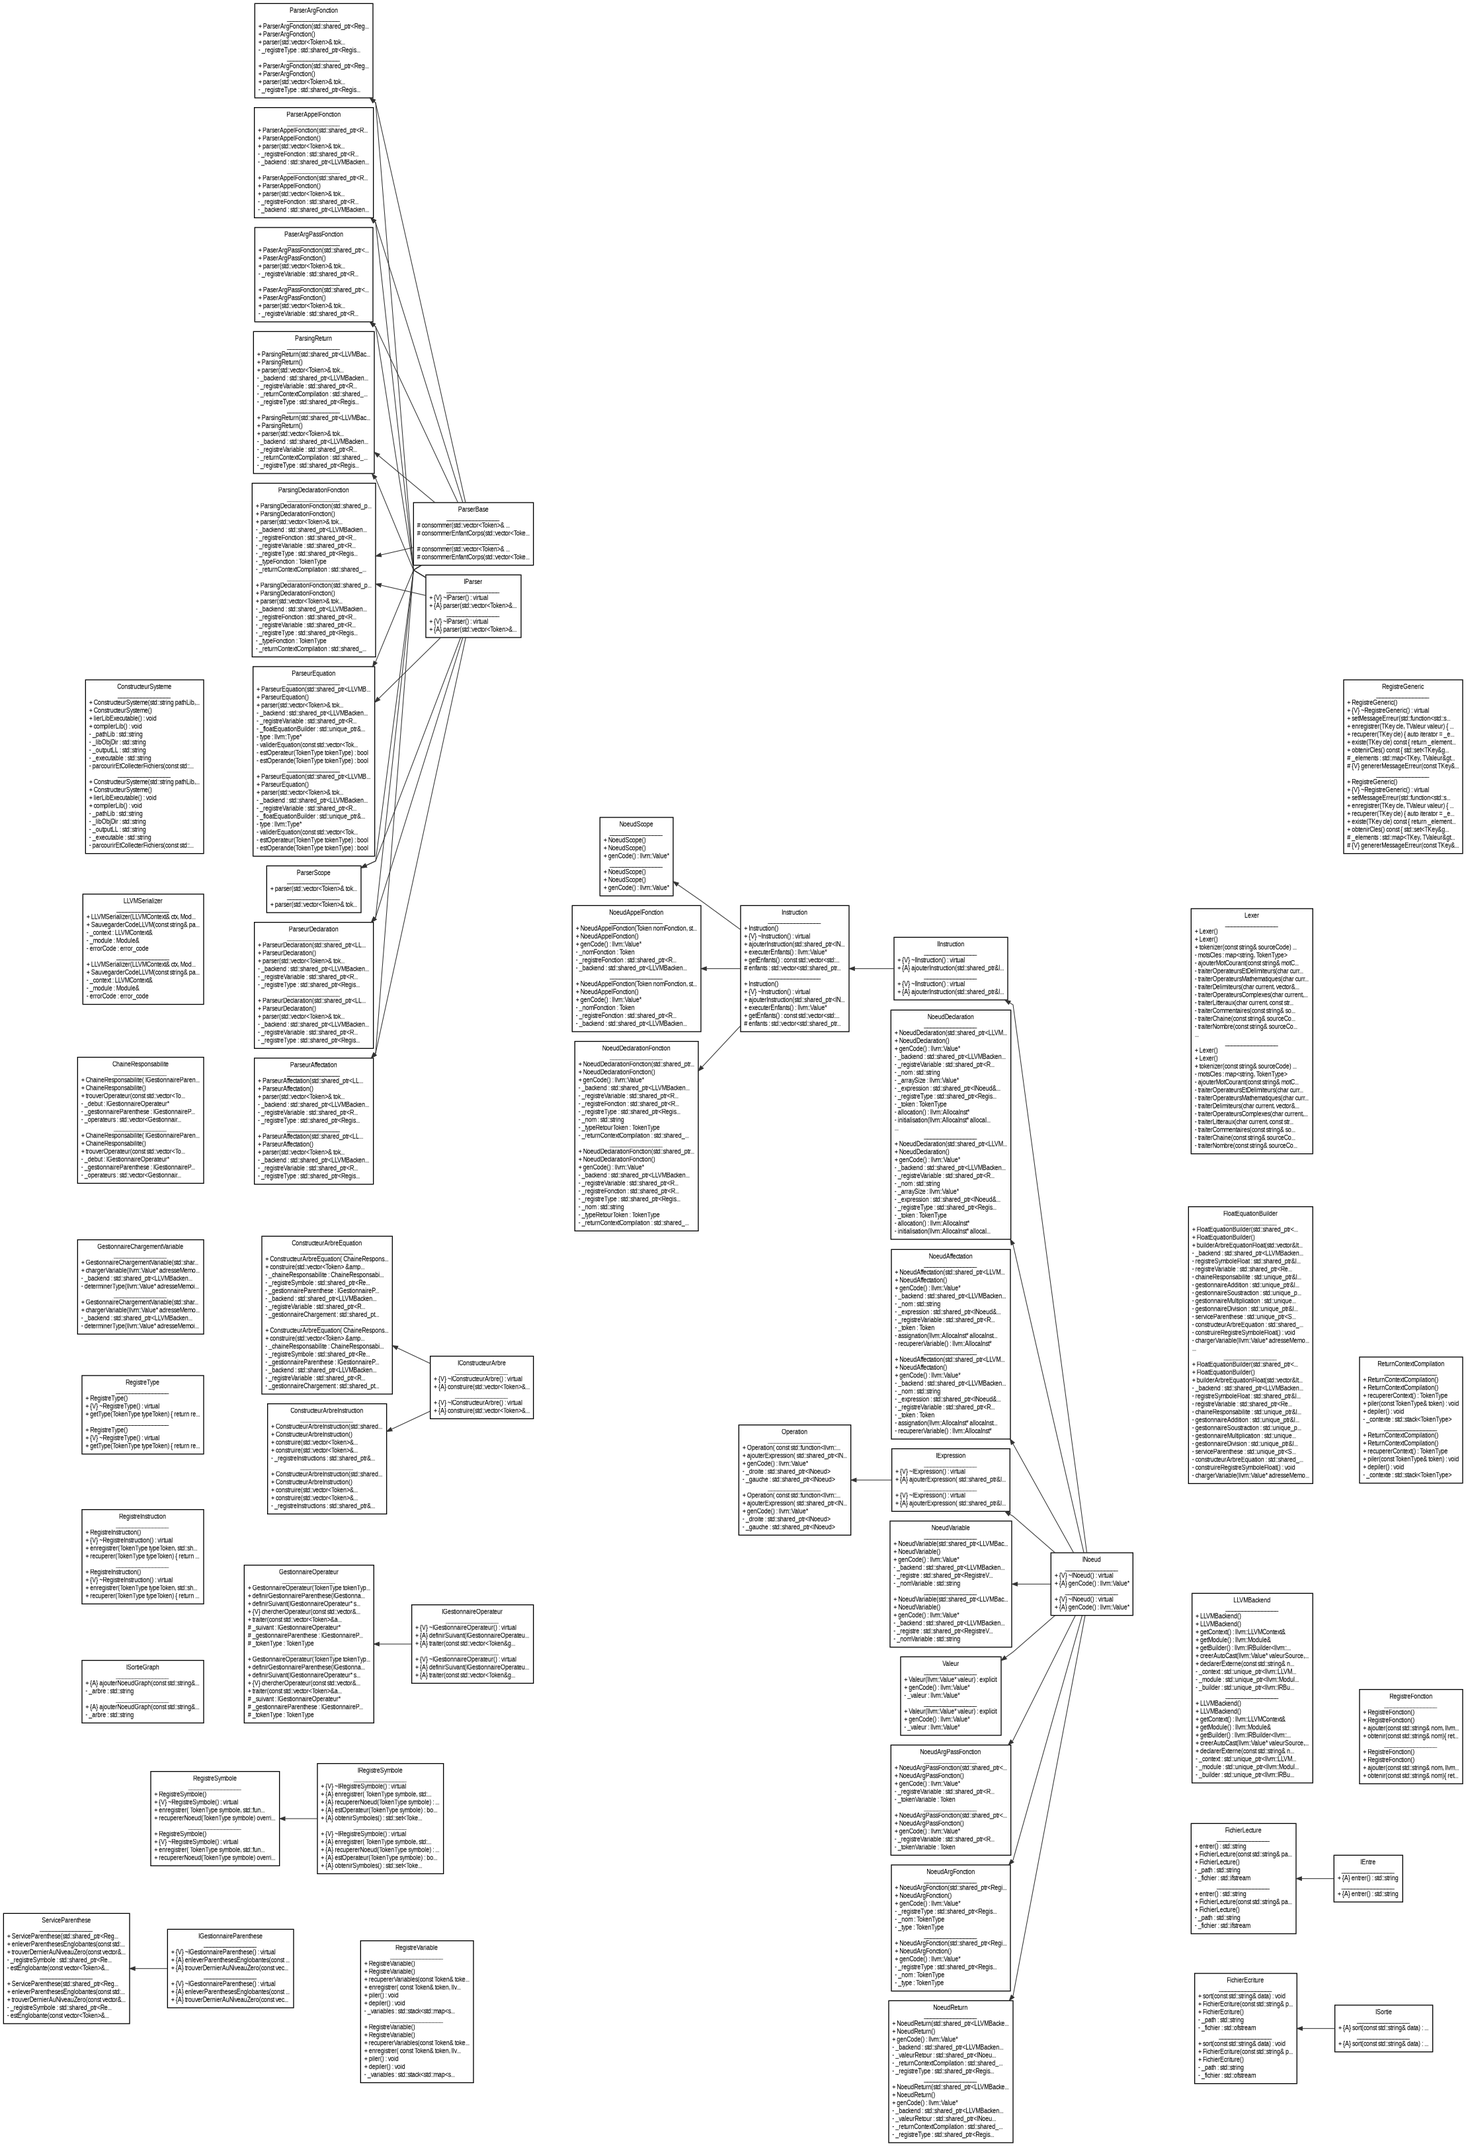
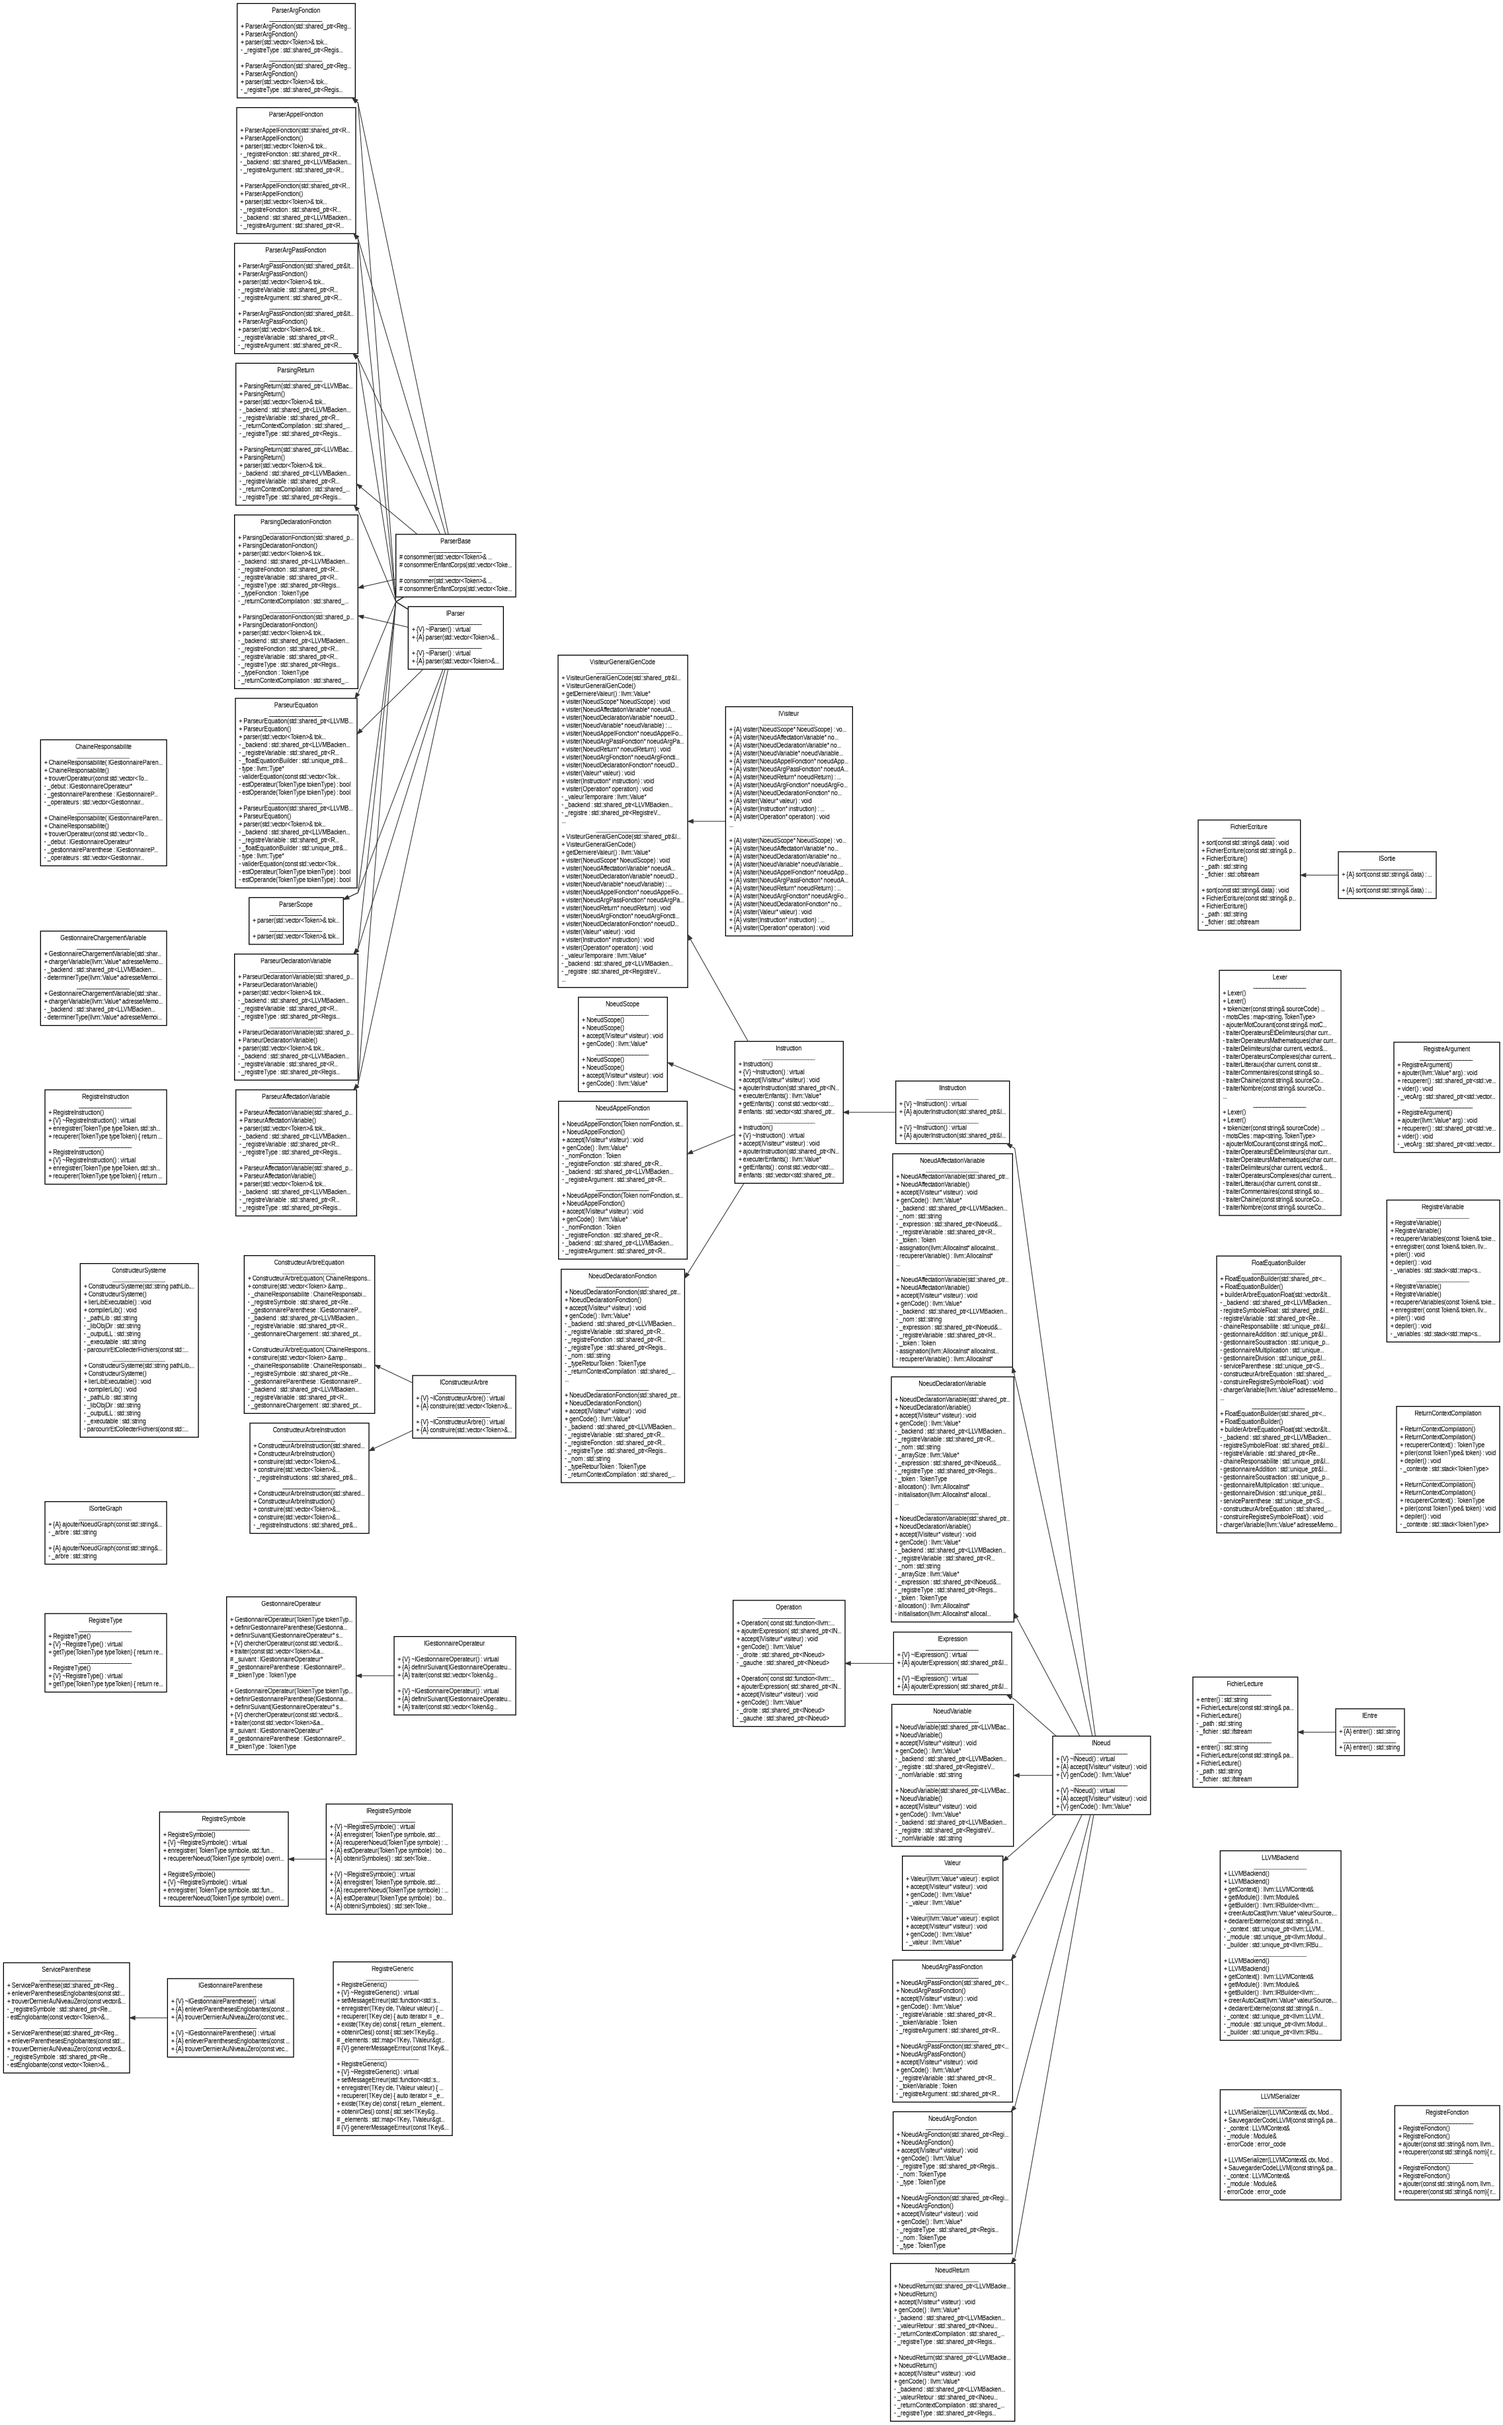
Add ContextGenCode structure to inject dependencies into visitors, avoiding massive constructor passing.

diff --git a/src/main.cpp b/src/main.cpp
@@ -1,5 +1,10 @@
 #include "Compilateur/AST/ConstructeurArbreInstruction.h"
+#include "Compilateur/AST/Registre/ContextGenCode.h"
+#include "Compilateur/AST/Registre/Pile/RegistreVariable.h"
 #include "Compilateur/AST/Registre/Pile/ReturnContextCompilation.h"
+#include "Compilateur/AST/Registre/RegistreArgument.h"
+#include "Compilateur/AST/Registre/RegistreFonction.h"
+#include "Compilateur/AST/Registre/RegistreInstruction.h"
 #include "Compilateur/LLVM/LLVMBackend.h"
 #include "Compilateur/LLVM/LLVMSerializer.h"
 #include "Compilateur/Lexer/Lexer.h"
@@ -9,35 +14,23 @@
 #include "Compilateur/Parsing/Instruction/Variable/ParseurAffectationVariable.h"
 #include "Compilateur/Parsing/Instruction/Variable/ParseurDeclarationVariable.h"
 #include "Compilateur/TraitementFichier/FichierLecture.h"
-#include "Compilateur/AST/Registre/Pile/RegistreVariable.h"
-#include "Compilateur/AST/Registre/RegistreFonction.h"
-#include "Compilateur/AST/Registre/RegistreType.h"
-#include "Compilateur/AST/Registre/RegistreArgument.h"
 #include "Compilateur/TraitementFichier/ConstructeurSysteme.h"
 #include <iostream>
 #include <llvm-18/llvm/IR/DerivedTypes.h>
 #include <llvm-18/llvm/IR/Instructions.h>
 #include <llvm-18/llvm/IR/Value.h>
 #include <memory>
-#include "Compilateur/AST/Registre/RegistreInstruction.h"
 #include "Compilateur/Parsing/Instruction/ParserScope.h"
 #include "Compilateur/Parsing/Instruction/Fonction/ParsingDeclarationFonction.h"
 #include "Compilateur/Parsing/Instruction/Fonction/ParsingReturn.h"
 #include "Compilateur/Parsing/Instruction/Fonction/ParserArgPassFonction.h"
-#include <filesystem>
 
 
 int main(int argc, char* argv[])
 {
     try {
 
-        shared_ptr<LLVMBackend> backend = std::make_shared<LLVMBackend>();
-        FichierLecture fichierLecture("../src/PrysmaCodeTests/main.p");
-        std::string document = fichierLecture.entrer();
-  
-        Lexer lexer;
-        vector<Token> tokens = lexer.tokenizer(document);
-
+        std::shared_ptr<LLVMBackend> backend = std::make_shared<LLVMBackend>();
         std::shared_ptr<RegistreInstruction> registreInstruction = std::make_shared<RegistreInstruction>();
         std::shared_ptr<RegistreVariable> registreVariable = std::make_shared<RegistreVariable>();
         std::shared_ptr<RegistreFonction> registreFonction = std::make_shared<RegistreFonction>();
@@ -45,42 +38,58 @@ int main(int argc, char* argv[])
         std::shared_ptr<ReturnContextCompilation> returnContextCompilation = std::make_shared<ReturnContextCompilation>();
         std::shared_ptr<RegistreArgument> registreArgument = std::make_shared<RegistreArgument>();
 
-        // Enregistrer des fonctions externe
+        ContextGenCode context(
+            backend,
+            registreInstruction,
+            registreVariable,
+            registreFonction,
+            registreType,
+            returnContextCompilation,
+            registreArgument
+        );
+
+        FichierLecture fichierLecture("../src/PrysmaCodeTests/main.p");
+        std::string document = fichierLecture.entrer();
+  
+        Lexer lexer;
+        vector<Token> tokens = lexer.tokenizer(document);
+
+        // Enregistrer des fonctions externes
 
         // PrintInt
-        IntegerType* intTy = llvm::Type::getInt32Ty(backend->getContext());
+        IntegerType* intTy = llvm::Type::getInt32Ty(context.backend->getContext());
         std::vector<llvm::Type*> printIntArgs = {intTy};
-        backend->declarerExterne("printInt", intTy, printIntArgs);
-        registreFonction->ajouter("printInt", backend->getModule().getFunction("printInt"));
+        context.backend->declarerExterne("printInt", intTy, printIntArgs);
+        context.registreFonction->ajouter("printInt", context.backend->getModule().getFunction("printInt"));
 
-        //PrintFloat 
-        IntegerType* floatTy = llvm::Type::getInt32Ty(backend->getContext());
+        // PrintFloat 
+        IntegerType* floatTy = llvm::Type::getInt32Ty(context.backend->getContext());
         std::vector<llvm::Type*> printFloatArgs = {floatTy};
-        backend->declarerExterne("printFloat", floatTy, printFloatArgs);
-        registreFonction->ajouter("printFloat", backend->getModule().getFunction("printFloat"));
+        context.backend->declarerExterne("printFloat", floatTy, printFloatArgs);
+        context.registreFonction->ajouter("printFloat", context.backend->getModule().getFunction("printFloat"));
         
         // Enregistrer les types de base
-        registreType->enregistrer(TOKEN_TYPE_INT, llvm::Type::getInt32Ty(backend->getContext()));
-        registreType->enregistrer(TOKEN_TYPE_FLOAT, llvm::Type::getFloatTy(backend->getContext()));
-        registreType->enregistrer(TOKEN_TYPE_BOOL, llvm::Type::getInt1Ty(backend->getContext()));
-        registreType->enregistrer(TOKEN_TYPE_VOID, llvm::Type::getVoidTy(backend->getContext()));
+        context.registreType->enregistrer(TOKEN_TYPE_INT, llvm::Type::getInt32Ty(context.backend->getContext()));
+        context.registreType->enregistrer(TOKEN_TYPE_FLOAT, llvm::Type::getFloatTy(context.backend->getContext()));
+        context.registreType->enregistrer(TOKEN_TYPE_BOOL, llvm::Type::getInt1Ty(context.backend->getContext()));
+        context.registreType->enregistrer(TOKEN_TYPE_VOID, llvm::Type::getVoidTy(context.backend->getContext()));
         
         // Instruction du langage prysma
-        registreInstruction->enregistrer(TOKEN_SCOPE, std::make_shared<ParserScope>());
-        registreInstruction->enregistrer(TOKEN_FONCTION, std::make_shared<ParsingDeclarationFonction>(backend, registreFonction, registreVariable, registreType, TOKEN_FONCTION, returnContextCompilation));
-        registreInstruction->enregistrer(TOKEN_AFF, std::make_shared<ParseurAffectationVariable>(backend, registreVariable,registreType));
-        registreInstruction->enregistrer(TOKEN_DEC,std::make_shared<ParseurDeclarationVariable>(backend, registreVariable,registreType));
-        registreInstruction->enregistrer(TOKEN_CALL, std::make_shared<ParserAppelFonction>(registreFonction, backend, registreArgument));
-        registreInstruction->enregistrer(TOKEN_RETOUR, std::make_shared<ParsingReturn>(backend, registreVariable, returnContextCompilation, registreType));
-        registreInstruction->enregistrer(TOKEN_ARG,std::make_shared<ParserArgFonction>(registreType));
-        registreInstruction->enregistrer(TOKEN_PASS,std::make_shared<ParserArgPassFonction>(registreVariable, registreArgument));
+        context.registreInstruction->enregistrer(TOKEN_SCOPE, std::make_shared<ParserScope>());
+        context.registreInstruction->enregistrer(TOKEN_FONCTION, std::make_shared<ParsingDeclarationFonction>(context.backend, context.registreFonction, context.registreVariable, context.registreType, TOKEN_FONCTION, context.returnContextCompilation));
+        context.registreInstruction->enregistrer(TOKEN_AFF, std::make_shared<ParseurAffectationVariable>(context.backend, context.registreVariable, context.registreType));
+        context.registreInstruction->enregistrer(TOKEN_DEC, std::make_shared<ParseurDeclarationVariable>(context.backend, context.registreVariable, context.registreType));
+        context.registreInstruction->enregistrer(TOKEN_CALL, std::make_shared<ParserAppelFonction>(context.registreFonction, context.backend, context.registreArgument));
+        context.registreInstruction->enregistrer(TOKEN_RETOUR, std::make_shared<ParsingReturn>(context.backend, context.registreVariable, context.returnContextCompilation, context.registreType));
+        context.registreInstruction->enregistrer(TOKEN_ARG, std::make_shared<ParserArgFonction>(context.registreType));
+        context.registreInstruction->enregistrer(TOKEN_PASS, std::make_shared<ParserArgPassFonction>(context.registreVariable, context.registreArgument));
 
-        ConstructeurArbreInstruction constructeurArbreInstruction(registreInstruction);
+        ConstructeurArbreInstruction constructeurArbreInstruction(context.registreInstruction);
         std::shared_ptr<INoeud> arbre = constructeurArbreInstruction.construire(tokens);
 
         arbre->genCode();
 
-        LLVMSerializer serializer(backend->getContext(), backend->getModule());
+        LLVMSerializer serializer(context.backend->getContext(), context.backend->getModule());
         serializer.SauvegarderCodeLLVM("output.ll");
        
         ConstructeurSysteme constructeur("../src/Lib", "Lib", "output.ll", "programme");

diff --git a/include/Compilateur/AST/Registre/ContextGenCode.h b/include/Compilateur/AST/Registre/ContextGenCode.h
@@ -1,0 +1,43 @@
+#ifndef C2537ED8_1CCF_4242_BDB0_B5ED5F2AD08F
+#define C2537ED8_1CCF_4242_BDB0_B5ED5F2AD08F
+
+#include <memory>
+#include "RegistreInstruction.h"
+#include "Pile/RegistreVariable.h"
+#include "RegistreFonction.h"
+#include "RegistreType.h"
+#include "RegistreArgument.h"
+#include "Pile/ReturnContextCompilation.h"
+#include "../../LLVM/LLVMBackend.h"
+
+struct ContextGenCode
+{
+    std::shared_ptr<LLVMBackend> backend;
+    std::shared_ptr<RegistreInstruction> registreInstruction;
+    std::shared_ptr<RegistreVariable> registreVariable;
+    std::shared_ptr<RegistreFonction> registreFonction;
+    std::shared_ptr<RegistreType> registreType;
+    std::shared_ptr<ReturnContextCompilation> returnContextCompilation;
+    std::shared_ptr<RegistreArgument> registreArgument;
+
+    ContextGenCode(
+        std::shared_ptr<LLVMBackend> backend_,
+        std::shared_ptr<RegistreInstruction> registreInstruction_,
+        std::shared_ptr<RegistreVariable> registreVariable_,
+        std::shared_ptr<RegistreFonction> registreFonction_,
+        std::shared_ptr<RegistreType> registreType_,
+        std::shared_ptr<ReturnContextCompilation> returnContextCompilation_,
+        std::shared_ptr<RegistreArgument> registreArgument_
+    ) 
+        : backend(std::move(backend_)),
+          registreInstruction(std::move(registreInstruction_)),
+          registreVariable(std::move(registreVariable_)),
+          registreFonction(std::move(registreFonction_)),
+          registreType(std::move(registreType_)),
+          returnContextCompilation(std::move(returnContextCompilation_)),
+          registreArgument(std::move(registreArgument_))
+    {
+    }
+};
+
+#endif /* C2537ED8_1CCF_4242_BDB0_B5ED5F2AD08F */

diff --git a/include/Compilateur/Visiteur/CodeGen/VisiteurGeneralGenCode.h b/include/Compilateur/Visiteur/CodeGen/VisiteurGeneralGenCode.h
@@ -1,6 +1,7 @@
 #ifndef FDDB5968_6DEF_49B0_AD11_8791D523278A
 #define FDDB5968_6DEF_49B0_AD11_8791D523278A
 #include "Compilateur/Visiteur/Interfaces/IVisiteur.h"
+#include "Compilateur/AST/Noeuds/Instruction.h"
 #include <llvm-18/llvm/IR/Value.h>
 
 // Importation des noeuds
@@ -35,7 +36,8 @@ class GenCodeScope;
 class RegistreVariable;
 class LLVMBackend;
 
-class VisiteurGeneralGenCode : public IVisiteur
+
+class VisiteurGeneralGenCode : public IVisiteur, public Instruction
 {
 private:
     llvm::Value* _valeurTemporaire = nullptr;

diff --git a/src/Compilateur/AST/Noeuds/NoeudScope.cpp b/src/Compilateur/AST/Noeuds/NoeudScope.cpp
@@ -12,12 +12,3 @@ void NoeudScope::accept(IVisiteur* visiteur)
 {
     visiteur->visiter(this);
 }
-
-llvm::Value* NoeudScope::genCode()
-{
-    llvm::Value* resultat = nullptr;
-    for (const auto& enfant : enfants) {
-        resultat = enfant->genCode();
-    }
-    return resultat;
-}

diff --git a/src/Compilateur/Visiteur/VisiteurScope.cpp b/src/Compilateur/Visiteur/VisiteurScope.cpp
@@ -2,5 +2,9 @@
 
 void VisiteurGeneralGenCode::visiter(NoeudScope* NoeudScope)
 {
-    
+     llvm::Value* resultat = nullptr;
+    for (const auto& enfant : enfants) {
+        enfant->accept(this);
+    }
+    this->_valeurTemporaire = resultat;
 }

diff --git a/Documents/LLVMDoc/LLVMMethodeDoc.cpp b/Documents/LLVMDoc/LLVMMethodeDoc.cpp
@@ -1,5 +1,5 @@
 // Inclusions LLVM
-#include <llvm/IR/LLVMContext.h>
+#include "Compilateur/AST/Registre/ContextGenCode.h"
 #include <llvm/IR/Module.h>
 #include <llvm/IR/IRBuilder.h>
 #include <llvm/Support/raw_ostream.h>
